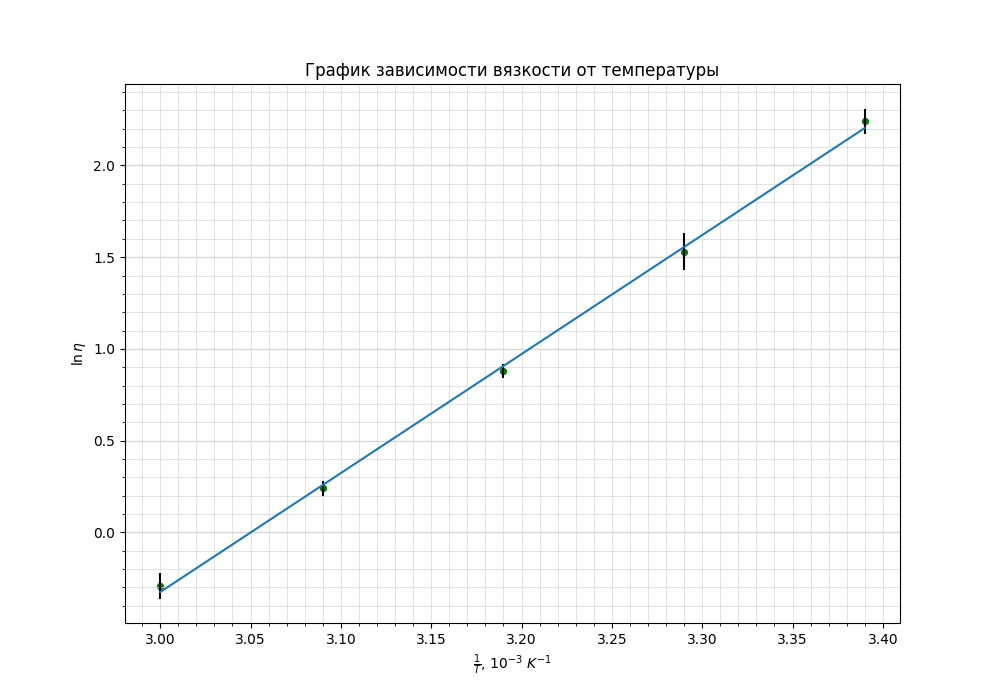
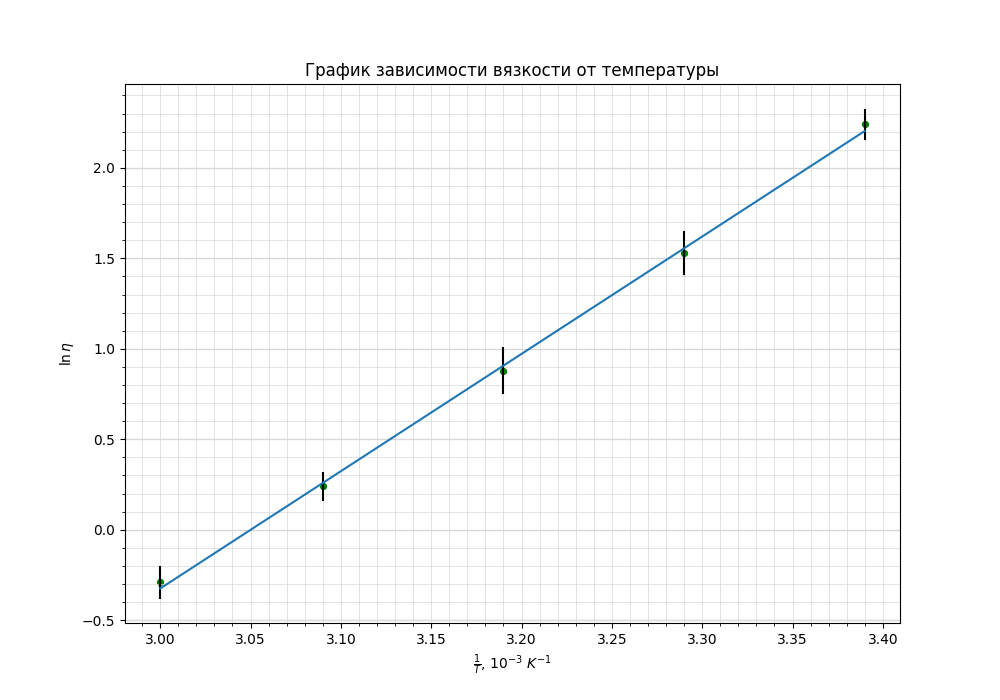
2.2.6  fixed

diff --git a/2 Семестр/2.2.6/plot.py b/2 Семестр/2.2.6/plot.py
@@ -15,7 +15,7 @@ plt.xlabel(r'$\frac{1}{T}$, $10^{-3}$ $K^{-1}$') # Подпись абсцисс
 plt.ylabel(r'$\ln{\eta}$') # Подпись ординат
 
 xerr = [1*10**(-6)]  # Погрешность по y
-yerr = [0.07, 0.1, 0.04, 0.04, 0.07] # Погрешность по x
+yerr = [0.088, 0.123, 0.129, 0.079, 0.090] # Погрешность по x
 plt.errorbar(x, y, xerr=xerr, yerr=yerr, fmt=" ", color='k')
 
 p = np.polyfit(x, y, deg=1) # Построение кривой по мнк
